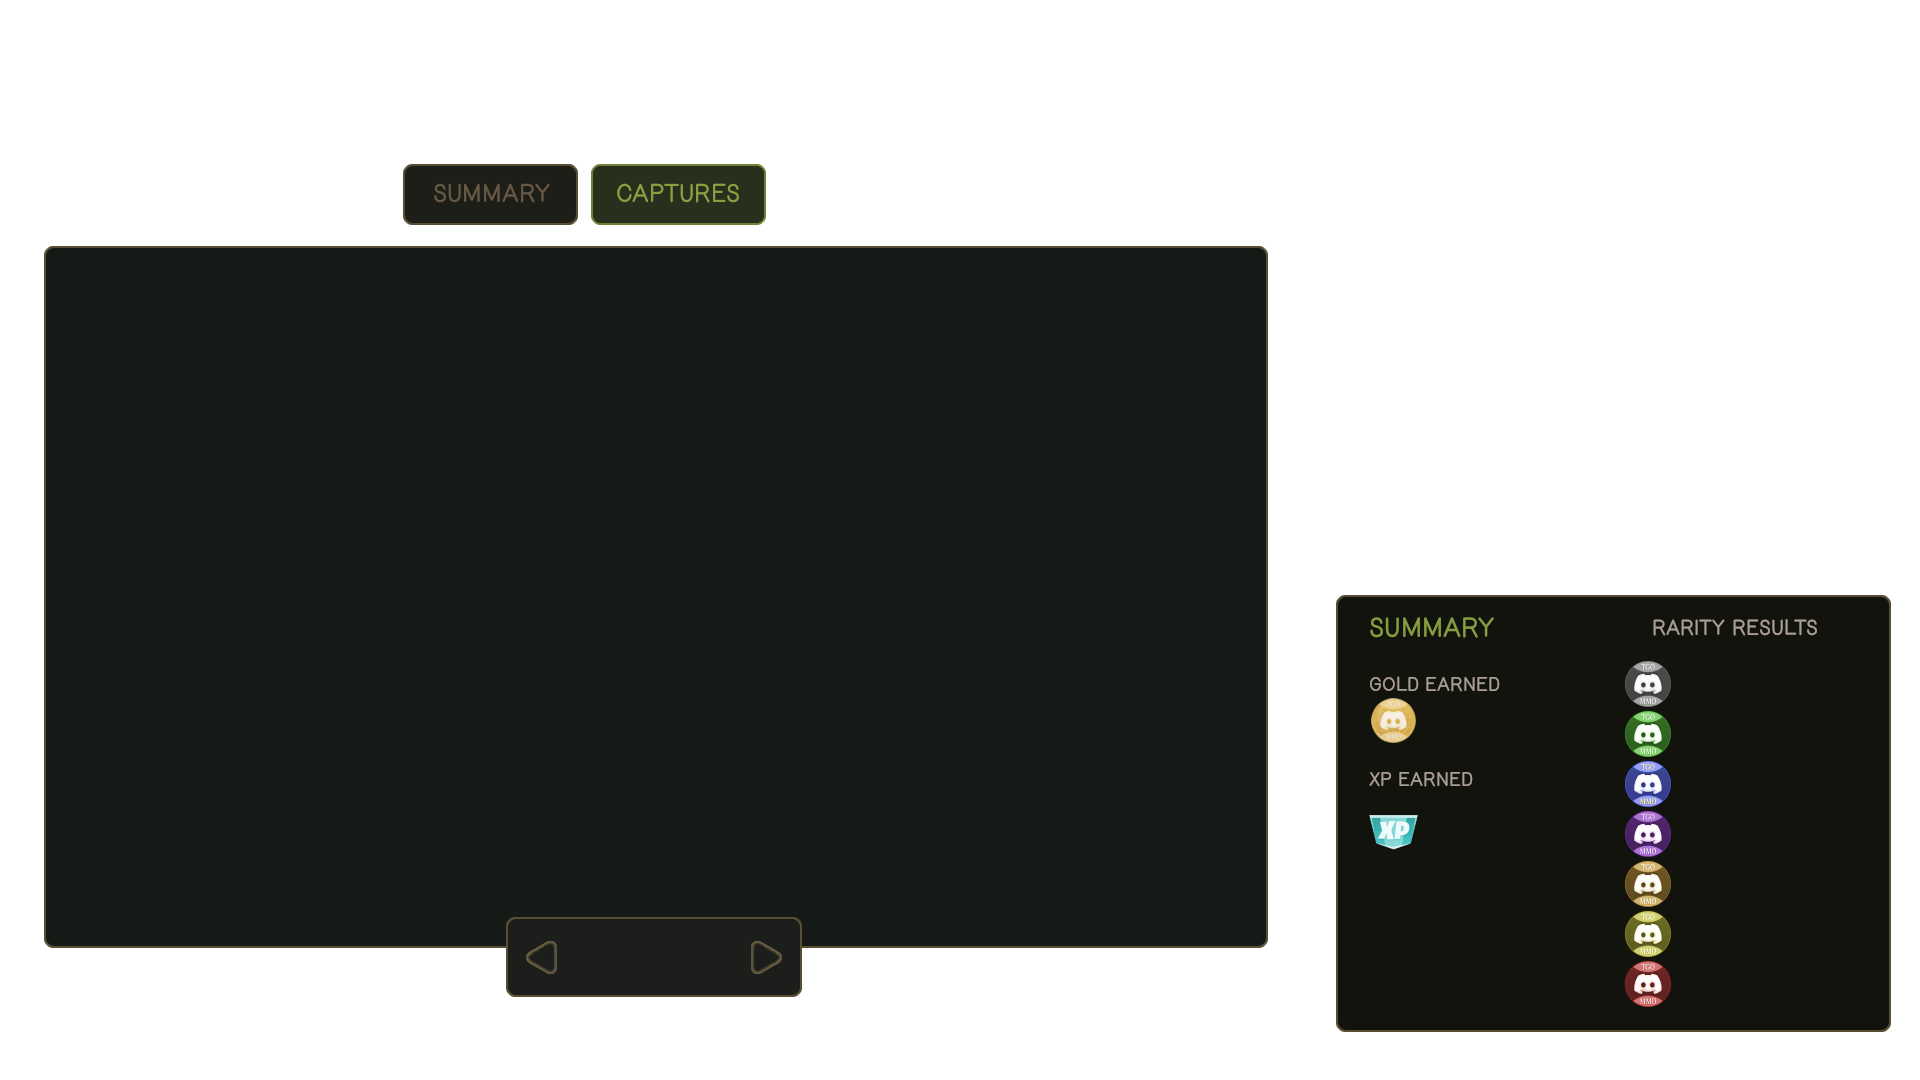
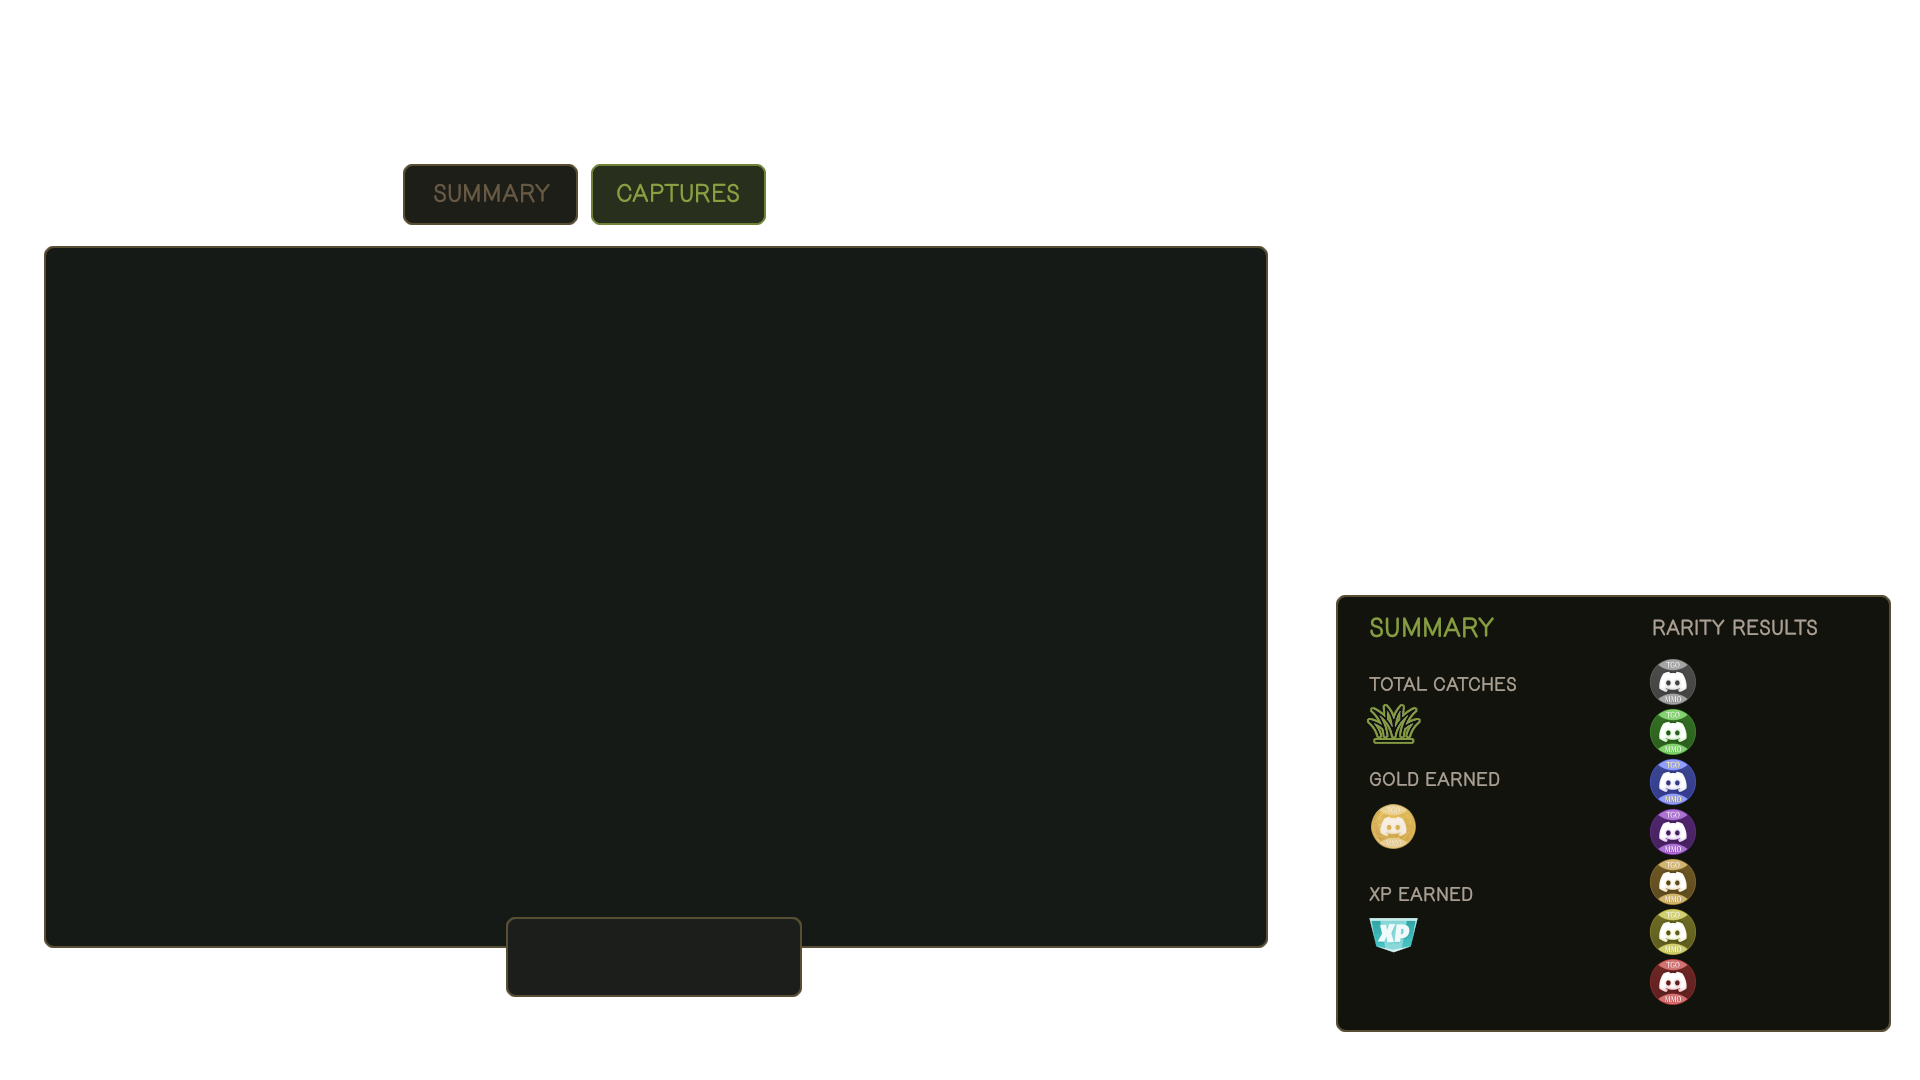
- finished implementation of TrapManagerImageFactory.py capture tab
- updated convert_date_format_to_month_name to allow for time AM/PM conversion
- added placeholders for gold earned & xp earned for a creature catch

Changed region(s): [[0.8438, 0.6111, 0.9062, 0.9472], [0.6875, 0.6111, 0.7812, 0.7944], [0.7188, 0.825, 0.75, 0.8861]]

diff --git a/src/discord/game_features/trap_manager/TrapManagerImageFactory.py b/src/discord/game_features/trap_manager/TrapManagerImageFactory.py
@@ -14,7 +14,9 @@ class TrapManagerImageFactory(BaseImageFactory):
 
         # Image Factory Variables
         self.open_tab = open_tab
+        self.open_tab = TRAP_MANAGER_OPEN_TAB_CAPTURES
 
+        # Summary Tab Variables
         # todo: pull these from the database based on the player profile id
         (self.active_trap_rarity,
          self.active_trap_mode,
@@ -24,10 +26,30 @@ class TrapManagerImageFactory(BaseImageFactory):
         self.scheduled_trap_mode_start_time = "12:00 am"
         self.scheduled_trap_mode_end_time = "12:00 pm"
 
+        # Captures Tab Variables
+        # todo: grab these from db, add a flag for if the creature was remotely caught or not, and sort by most recent catch date first
+        self.creatures_caught_by_trap = get_tgommo_db_handler().get_user_creatures_by_user_id(user_id=self.target_user.user_id)[1:]
+        self.creature_icons = self.build_creature_cell_images()
+        self.total_pages = math.ceil(len(self.creature_icons) / 32) if len(self.creature_icons) > 0 else 1
 
+        # todo: grab the active trap from the database based on the player profile id
+        self.page_num = 2
         self.active_trap = get_tgommo_db_handler().get_inventory_item_by_item_id(ITEM_ID_EPIC_TRAP)
 
         self.load_relevant_info()
+
+    def reload_image(self, target_user=None, new_page_number=None, open_tab=None, order_type=None, active_trap_mode=None, active_trap_rarity=None, player_trap_charges=None, active_trap=None):
+        self.load_relevant_info(target_user= target_user, new_page_number=new_page_number, open_tab=open_tab, order_type=order_type, active_trap_mode=active_trap_mode, active_trap_rarity=active_trap_rarity, player_trap_charges=player_trap_charges, active_trap=active_trap,)
+        return self.build_image()
+    def load_relevant_info(self, target_user=None, new_page_number=None, open_tab=None, order_type=None, active_trap_mode=None, active_trap_rarity=None, player_trap_charges=None, active_trap=None):
+        self.target_user = target_user if target_user else self.target_user
+        self.page_num = new_page_number if new_page_number else self.page_num
+        self.open_tab = open_tab if open_tab else self.open_tab
+
+        self.active_trap_mode = active_trap_mode if active_trap_mode else self.active_trap_mode
+        self.active_trap_rarity = active_trap_rarity if active_trap_rarity else self.active_trap_rarity
+        self.player_trap_charges = player_trap_charges if player_trap_charges else self.player_trap_charges
+        self.active_trap = active_trap if active_trap else self.active_trap
 
     def build_image(self):
         trap_manager_image = Image.open(TRAP_MANAGER_BG_IMAGE)
@@ -45,22 +67,29 @@ class TrapManagerImageFactory(BaseImageFactory):
 
             trap_manager_image.paste(open_menu_overlay_image, (0, 0), open_menu_overlay_image)
             trap_manager_image.paste(trap_manager_mode_image, (0, 0), trap_manager_mode_image)
+            trap_manager_image.paste(active_trap, get_centered_image_position(foreground_image=active_trap, background_image=trap_manager_image, center_pixel=(1041, 527)), active_trap)
 
             # add the battery section to the trap manager image
             trap_manager_image = self.build_summary_battery_section(trap_manager_image)
+
         # otherwise build the captures menu
-        else:
+        elif self.open_tab == TRAP_MANAGER_OPEN_TAB_CAPTURES:
+            open_menu_overlay_image = Image.open(TRAP_MANAGER_CAPTURES_OVERLAY_IMAGE)
+            trap_manager_image.paste(open_menu_overlay_image, (0, 0), open_menu_overlay_image)
+
+            # add active arrows to the trap manager image if there are more pages of creatures to show
             if self.page_num > 1:
                 left_active_arrow = Image.open(TRAP_MANAGER_CAPTURES_ACTIVE_ARROW_LEFT_IMAGE)
                 trap_manager_image.paste(left_active_arrow, (0, 0), left_active_arrow)
             if self.page_num < self.total_pages:
                 right_active_arrow = Image.open(TRAP_MANAGER_CAPTURES_ACTIVE_ARROW_RIGHT_IMAGE)
                 trap_manager_image.paste(right_active_arrow, (0, 0), right_active_arrow)
+
+            # build the captures creature menu and paste it onto the trap manager image
             trap_manager_image = self.build_captures_creature_menu(trap_manager_image)
 
         # paste FG resources
         trap_manager_image.paste(corner_overlay_image, (0,0), corner_overlay_image)
-        trap_manager_image.paste(active_trap, get_centered_image_position(foreground_image=active_trap, background_image=trap_manager_image, center_pixel=(1041, 527)), active_trap)
         return self.add_text_to_image(image = trap_manager_image)
 
     def build_summary_battery_section(self, base_image: Image):
@@ -114,17 +143,9 @@ class TrapManagerImageFactory(BaseImageFactory):
         return base_image
 
     def build_captures_creature_menu(self, base_image: Image):
-        creature_icons = []
-
-        # todo: grab these from db, add a flag for if the creature was remotely caught or not, and sort by most recent catch date first
-        creatures_caught_by_trap = []
-
-        for creature in creatures_caught_by_trap:
-            creature_cell_image = TrapManagerCreatureCellImageFactory(creature=creature).generate_creature_cell_image()
-            creature_icons.append(creature_cell_image)
-        creature_grid = self.build_grid(icons=creature_icons, grid_size=(1172, 631), icon_size=(142, 150), icons_per_page=32, icons_per_row=8, horizontal_padding=5, vertical_padding=10)
-
-        return base_image.paste(creature_grid, (68, 260), creature_grid)
+        creature_grid = self.build_grid(icons=self.creature_icons, grid_size=(1172, 631), icon_size=(142, 150), icons_per_page=32, icons_per_row=8, horizontal_padding=5, vertical_padding=10)
+        base_image.paste(creature_grid, (68, 260), creature_grid)
+        return base_image
 
     def add_text_to_image(self, image: Image):
         draw = ImageDraw.Draw(image)
@@ -148,4 +169,47 @@ class TrapManagerImageFactory(BaseImageFactory):
             font = resize_text_to_fit(text=f"{charges_text}", draw=draw, font=ImageFont.truetype(FONT_FOREST_REGULAR_FILE, 16), max_width=58, min_font_size=10)
             draw.text(get_centered_text_position(text=charges_text, font=font, center_pixel_location=(1544, 957)), f"{charges_text}", fill=FONT_COLOR_TRAP_MANAGER_OFF_BROWN, font=font)
 
+        elif self.open_tab == TRAP_MANAGER_OPEN_TAB_CAPTURES:
+            # add page number text to image
+            page_text = f"Page {self.page_num}/{self.total_pages}"
+            font = resize_text_to_fit(text=f"{page_text}", draw=draw, font=ImageFont.truetype(FONT_FOREST_REGULAR_FILE, 22), max_width=100, min_font_size=10)
+            draw.text(get_centered_text_position(text=page_text, font=font, center_pixel_location=(654, 954)), f"{page_text}", fill=FONT_COLOR_TRAP_MANAGER_OFF_BROWN, font=font)
+
+            # ADD TEXT FOR AFK CATCH RESULTS
+            # add xp text to image
+            total_catch_text = f"{len(self.creatures_caught_by_trap)}"
+            font = resize_text_to_fit(text=f"{total_catch_text}", draw=draw, font=ImageFont.truetype(FONT_FOREST_REGULAR_FILE, 35), max_width=104, min_font_size=10)
+            draw.text(get_centered_text_position(text=f"{total_catch_text}", font=font, center_pixel_location=(1496, 720)), f"{total_catch_text}", fill=FONT_COLOR_WHITE, font=font)
+
+            # add xp text to image
+            xp_text = sum(creature.xp_earned for creature in self.creatures_caught_by_trap)
+            font = resize_text_to_fit(text=f"{xp_text}", draw=draw, font=ImageFont.truetype(FONT_FOREST_REGULAR_FILE, 35), max_width=104, min_font_size=10)
+            draw.text(get_centered_text_position(text=f"{xp_text}", font=font, center_pixel_location=(1496, 832)), f"{xp_text}", fill=FONT_COLOR_WHITE, font=font)
+
+            # add gold text to image
+            gold_text = sum(creature.gold_earned for creature in self.creatures_caught_by_trap)
+            font = resize_text_to_fit(text=f"{gold_text}", draw=draw, font=ImageFont.truetype(FONT_FOREST_REGULAR_FILE, 35), max_width=104, min_font_size=10)
+            draw.text(get_centered_text_position(text=f"{gold_text}", font=font, center_pixel_location=(1496, 934)), f"{gold_text}", fill=FONT_COLOR_WHITE, font=font)
+
+            # add rarity results text to image
+            rarity_counts = {
+                sum(1 for creature in self.creatures_caught_by_trap if creature.local_rarity.name == TGOMMO_RARITY_COMMON): (1800, 685),
+                sum(1 for creature in self.creatures_caught_by_trap if creature.local_rarity.name == TGOMMO_RARITY_UNCOMMON): (1800, 735),
+                sum(1 for creature in self.creatures_caught_by_trap if creature.local_rarity.name == TGOMMO_RARITY_RARE): (1800, 785),
+                sum(1 for creature in self.creatures_caught_by_trap if creature.local_rarity.name == TGOMMO_RARITY_EPIC): (1800, 835),
+                sum(1 for creature in self.creatures_caught_by_trap if creature.local_rarity.name == TGOMMO_RARITY_LEGENDARY): (1800, 885),
+                sum(1 for creature in self.creatures_caught_by_trap if creature.local_rarity.name == TGOMMO_RARITY_MYTHICAL): (1800, 935),
+                sum(1 for creature in self.creatures_caught_by_trap if creature.local_rarity.name == TGOMMO_RARITY_TRANSCENDANT): (1800, 985),
+            }
+            for count, position in rarity_counts.items():
+                font = resize_text_to_fit(text=f"{count}", draw=draw, font=ImageFont.truetype(FONT_FOREST_REGULAR_FILE, 35), max_width=100, min_font_size=10)
+                draw.text(get_centered_text_position(text=f"{count}", font=font, center_pixel_location=position), f"{count}", fill=FONT_COLOR_WHITE, font=font)
         return image
+
+    '''---- SUPPORT FUNCTIONS------------------------------------------------------------------------------------------------------------------------------------------------------------------------------'''
+    def build_creature_cell_images(self):
+        creature_icons = []
+        for creature in self.creatures_caught_by_trap:
+            creature_cell_image = TrapManagerCreatureCellImageFactory(creature=creature).generate_creature_cell_image()
+            creature_icons.append(creature_cell_image)
+        return creature_icons

diff --git a/src/discord/game_features/trap_manager/TrapManagerCreatureCellImageFactory.py b/src/discord/game_features/trap_manager/TrapManagerCreatureCellImageFactory.py
@@ -1,8 +1,11 @@
 from PIL import Image, ImageDraw, ImageFont
 
-from src.commons.CommonFunctions import resize_text_to_fit, get_centered_text_position, get_centered_image_position
+from src.commons.CommonFunctions import resize_text_to_fit, get_centered_text_position, get_centered_image_position, \
+    convert_date_format_to_month_name
 from src.database.handlers.DatabaseHandler import get_tgommo_db_handler
 from src.discord.objects.TGOCreature import TGOCreature
+from src.resources.constants.TGO_MMO_constants import FONT_COLOR_TRAP_MANAGER_OFF_GREEN, \
+    FONT_COLOR_TRAP_MANAGER_OFF_BROWN, FONT_COLOR_TRAP_MANAGER_FOREST_GREEN
 from src.resources.constants.file_paths import *
 
 
@@ -11,27 +14,38 @@ class TrapManagerCreatureCellImageFactory:
         self.creature = creature
 
     def generate_creature_cell_image(self):
-        creature_cell_image = Image.open(TRAP_MANAGER_CAPTURES_CREATURE_ICON_OVERLAY_IMAGE)
+        creature_cell_image = Image.open(f"{TRAP_MANAGER_OVERLAY_CAPTURES_CREATURE_ICON_BG_BASE}_{self.creature.local_rarity.name}{IMAGE_FILE_EXTENSION}")
+        creature_cell_image_overlay = Image.open(TRAP_MANAGER_CAPTURES_CREATURE_ICON_OVERLAY_IMAGE)
+
+        # prepare creature image
         creature_image = self.creature.creature_image.resize((130, 100), Image.LANCZOS)
-        creature_cell_image.paste(creature_image, get_centered_image_position(foreground_image=creature_image, background_image=creature_cell_image, center_pixel= (70, 37)))
+        creature_cell_image.paste(creature_image, get_centered_image_position(foreground_image=creature_image, background_image=creature_cell_image, center_pixel= (70, 54)), creature_image)
+
+        # add overlay to image
+        creature_cell_image.paste(creature_cell_image_overlay, (0, 0), creature_cell_image_overlay)
+
         return self.add_text_to_image(creature_cell_image)
 
-    def add_text_to_image(self, image: Image):
-        draw = ImageDraw.Draw(image)
+    def add_text_to_image(self, base_image: Image):
+        draw = ImageDraw.Draw(base_image)
 
         # ADD SPECIES NAME TO IMAGE
         species_name = self.creature.full_name
         font = resize_text_to_fit(text=f"{species_name}", draw=draw, font=ImageFont.truetype(FONT_FOREST_REGULAR_FILE, 12), max_width=126, min_font_size=8)
-        draw.text(get_centered_text_position(text=f"{species_name}", font=font, center_pixel_location=(70, 94)), f"{species_name}", fill=(0, 0, 0), font=font)
+        draw.text(get_centered_text_position(text=f"{species_name}", font=font, center_pixel_location=(70, 9)), f"{species_name}", fill=self.creature.local_rarity.font_color, font=font)
 
-        # CATCH DATE TO IMAGE
-        # todo: convert to MMM DD, YYYY HH:MM AM/PM format
-        catch_date = self.creature.catch_time
+        # ADD CATCH DATE TO IMAGE
+        catch_date, catch_time = convert_date_format_to_month_name(date_str=self.creature.caught_date, input_format="%Y-%d-%m %H:%M:%S", include_time=True, split_date_time=True)
         font = resize_text_to_fit(text=f"{catch_date}", draw=draw, font=ImageFont.truetype(FONT_FOREST_REGULAR_FILE, 13), max_width=126, min_font_size=8)
-        draw.text(get_centered_text_position(text=f"{catch_date}", font=font, center_pixel_location=(70, 110)), f"{catch_date}", fill=(0, 0, 0), font=font)
+        draw.text(get_centered_text_position(text=f"{catch_date}", font=font, center_pixel_location=(70, 110)), f"{catch_date}", fill=FONT_COLOR_TRAP_MANAGER_FOREST_GREEN, font=font)
+        # ADD CATCH TIME TO IMAGE
+        font = resize_text_to_fit(text=f"{catch_time}", draw=draw, font=ImageFont.truetype(FONT_FOREST_REGULAR_FILE, 13), max_width=126, min_font_size=8)
+        draw.text(get_centered_text_position(text=f"{catch_time}", font=font, center_pixel_location=(70, 124)), f"{catch_time}", fill=FONT_COLOR_TRAP_MANAGER_FOREST_GREEN, font=font)
+
 
         # ADD ENVIRONMENT TO IMAGE
         environment_name = get_tgommo_db_handler().get_environment_by_id(self.creature.environment_id).name
         font = resize_text_to_fit(text=f"{environment_name}", draw=draw, font=ImageFont.truetype(FONT_FOREST_REGULAR_FILE, 10), max_width=126, min_font_size=8)
-        draw.text(get_centered_text_position(text=f"{environment_name}", font=font, center_pixel_location=(70, 140)), f"{environment_name}", fill=(0, 0, 0), font=font)
+        draw.text(get_centered_text_position(text=f"{environment_name}", font=font, center_pixel_location=(70, 140)), f"{environment_name}", fill=FONT_COLOR_TRAP_MANAGER_OFF_BROWN, font=font)
+        return base_image
 

diff --git a/src/commons/CommonFunctions.py b/src/commons/CommonFunctions.py
@@ -1,23 +1,16 @@
-import asyncio
-import functools
-import os
-import random
-import ssl
-
-import aiohttp
-import discord
 import io
+import random
+from datetime import datetime, timezone
+from typing import Any
 
+import discord
 import requests
 from PIL import Image, ImageFont, ImageDraw, ImageFilter, ImageChops
-from discord import File, app_commands
+from discord import File
 
 from src.resources.constants.TGO_MMO_constants import FONT_COLOR_BLACK, FONT_COLOR_WHITE
 from src.resources.constants.file_paths import *
-from src.resources.constants.general_constants import IMAGE_FOLDER_BASE_PATH, IMAGE_FOLDER_IMAGES, DISCORD_USER_WHITELIST
-
-from datetime import datetime, timezone
-from typing import Any
+from src.resources.constants.general_constants import IMAGE_FOLDER_BASE_PATH, IMAGE_FOLDER_IMAGES
 
 #************************************************************************************
 #--------------------------------FILE FUNCTIONS--------------------------------------
@@ -309,24 +302,33 @@ def hex_to_rgb(hex_color):
     hex_color = hex_color.lstrip('#')
     return tuple(int(hex_color[i:i+2], 16) for i in (0, 2, 4))
 
-def convert_date_format_to_month_name(date_str: str, current_format: str = "%Y-%m-%d %H:%M:%S") -> str:
-    if date_str is not None and date_str != "Unknown":
-        try:
-            from datetime import datetime
-            catch_date = datetime.strptime(date_str, current_format)
-            day = catch_date.day
-            # Add suffix to day (1st, 2nd, 3rd, etc.)
-            if 11 <= day <= 13:
-                suffix = "th"
-            else:
-                suffix = {1: "st", 2: "nd", 3: "rd"}.get(day % 10, "th")
-            month_abbr = catch_date.strftime("%b")
-            formatted_date = f"{month_abbr} {day}{suffix} {catch_date.year}"
-        except (ValueError, TypeError):
-            formatted_date = date_str
+#************************************************************************************
+#------------------------------- DATE FUNCTIONS ------------------------------------
+#************************************************************************************
+def convert_date_format_to_month_name(date_str: str, input_format: str = "%Y-%m-%d %H:%M:%S", include_time: bool = False, split_date_time: bool = False):
+    try:
+        catch_date = datetime.strptime(date_str, input_format)
 
-        return formatted_date
-    return "Unknown"
+        day = catch_date.day
+        # Correct ordinal logic using modulo 100 to handle 11-13 properly
+        if 11 <= (day % 100) <= 13:
+            suffix = "th"
+        else:
+            suffix = {1: "st", 2: "nd", 3: "rd"}.get(day % 10, "th")
+
+        month_abbr = catch_date.strftime("%b")
+        date_part = f"{month_abbr} {day}{suffix} {catch_date.year}"
+
+        if include_time:
+            time_str = catch_date.strftime("%I:%M %p")
+            if time_str.startswith("0"):
+                time_str = time_str[1:]  # remove leading zero from hour
+            return (date_part, time_str) if split_date_time else f"{date_part} {time_str}"
+        return (date_part, "") if split_date_time else date_part
+    except (ValueError, TypeError):
+        # date_str is None or "Unknown"
+        return ("Unknown", "N/A") if split_date_time else "Unknown"
+
 
 def convert_to_datetime(value: Any) -> datetime:
     if isinstance(value, datetime):

diff --git a/src/resources/constants/file_paths.py b/src/resources/constants/file_paths.py
@@ -200,6 +200,8 @@ TRAP_MANAGER_OVERLAY_SUMMARY_TRAP_MODE_BASE = TRAP_MANAGER_OVERLAY_SUMMARY_BASE 
 TRAP_MANAGER_OVERLAY_SUMMARY_BATTERY_BASE = TRAP_MANAGER_OVERLAY_SUMMARY_BASE + "_Battery"
 
 TRAP_MANAGER_OVERLAY_CAPTURES_BASE = TRAP_MANAGER_OVERLAY_BASE + "_Captures"
+TRAP_MANAGER_OVERLAY_CAPTURES_CREATURE_ICON_BASE = TRAP_MANAGER_OVERLAY_CAPTURES_BASE + "_CreatureIcon"
+TRAP_MANAGER_OVERLAY_CAPTURES_CREATURE_ICON_BG_BASE = TRAP_MANAGER_OVERLAY_CAPTURES_CREATURE_ICON_BASE + "_BG"
 
 TRAP_MANAGER_FOREGROUND_TREE_BASE = os.path.join(IMAGE_FOLDER_TRAP_MANAGER_FOREGROUND_DECORATION_PATH, "TrapManager_ForegroundTrap")
 # endregion
@@ -394,7 +396,7 @@ TRAP_MANAGER_CORNER_OVERLAY_IMAGE = TRAP_MANAGER_BASE + "_CornerOverlay" + IMAGE
 TRAP_MANAGER_CAPTURES_OVERLAY_IMAGE = TRAP_MANAGER_OVERLAY_CAPTURES_BASE + IMAGE_FILE_EXTENSION
 TRAP_MANAGER_CAPTURES_ACTIVE_ARROW_LEFT_IMAGE = TRAP_MANAGER_OVERLAY_CAPTURES_BASE + "_ActiveArrow_L" + IMAGE_FILE_EXTENSION
 TRAP_MANAGER_CAPTURES_ACTIVE_ARROW_RIGHT_IMAGE = TRAP_MANAGER_OVERLAY_CAPTURES_BASE + "_ActiveArrow_R" + IMAGE_FILE_EXTENSION
-TRAP_MANAGER_CAPTURES_CREATURE_ICON_OVERLAY_IMAGE = TRAP_MANAGER_OVERLAY_CAPTURES_BASE + "_CreatureIcon_Overlay" + IMAGE_FILE_EXTENSION
+TRAP_MANAGER_CAPTURES_CREATURE_ICON_OVERLAY_IMAGE = TRAP_MANAGER_OVERLAY_CAPTURES_CREATURE_ICON_BASE + "_Overlay" + IMAGE_FILE_EXTENSION
 
 TRAP_MANAGER_SUMMARY_OVERLAY_IMAGE = TRAP_MANAGER_OVERLAY_SUMMARY_BASE + IMAGE_FILE_EXTENSION
 TRAP_MANAGER_SUMMARY_BATTERY_BARS_IMAGE = TRAP_MANAGER_OVERLAY_SUMMARY_BATTERY_BASE + "_Bars" + IMAGE_FILE_EXTENSION

diff --git a/src/discord/objects/TGOCreature.py b/src/discord/objects/TGOCreature.py
@@ -54,6 +54,10 @@ class TGOCreature:
         self.is_favorite = is_favorite
         self.is_released = is_released
 
+        # todo: add these as new columns to user creature db
+        self.gold_earned = random.randint(1, 100)  # Placeholder for gold earned, can be modified based on game logic
+        self.xp_earned = random.randint(1, 50)  # Placeholder for XP earned, can be modified based on game logic
+
         self.creature_image = None
         self.dex_icon_image = None
         self.define_creature_images()

diff --git a/src/resources/constants/TGO_MMO_constants.py b/src/resources/constants/TGO_MMO_constants.py
@@ -29,6 +29,7 @@ FONT_COLOR_WHITE = (255, 255, 255)
 FONT_COLOR_GOLD = (241, 196, 15)
 FONT_COLOR_DARK_GRAY = (88, 88, 87)
 FONT_COLOR_TRAP_MANAGER_OFF_GREEN = (172, 172, 141)
+FONT_COLOR_TRAP_MANAGER_FOREST_GREEN = (116, 136, 56)
 FONT_COLOR_TRAP_MANAGER_OFF_BROWN = (135, 126, 111)
 
 TRANSPARENT_IMG_BG = (0, 0, 0, 0)
